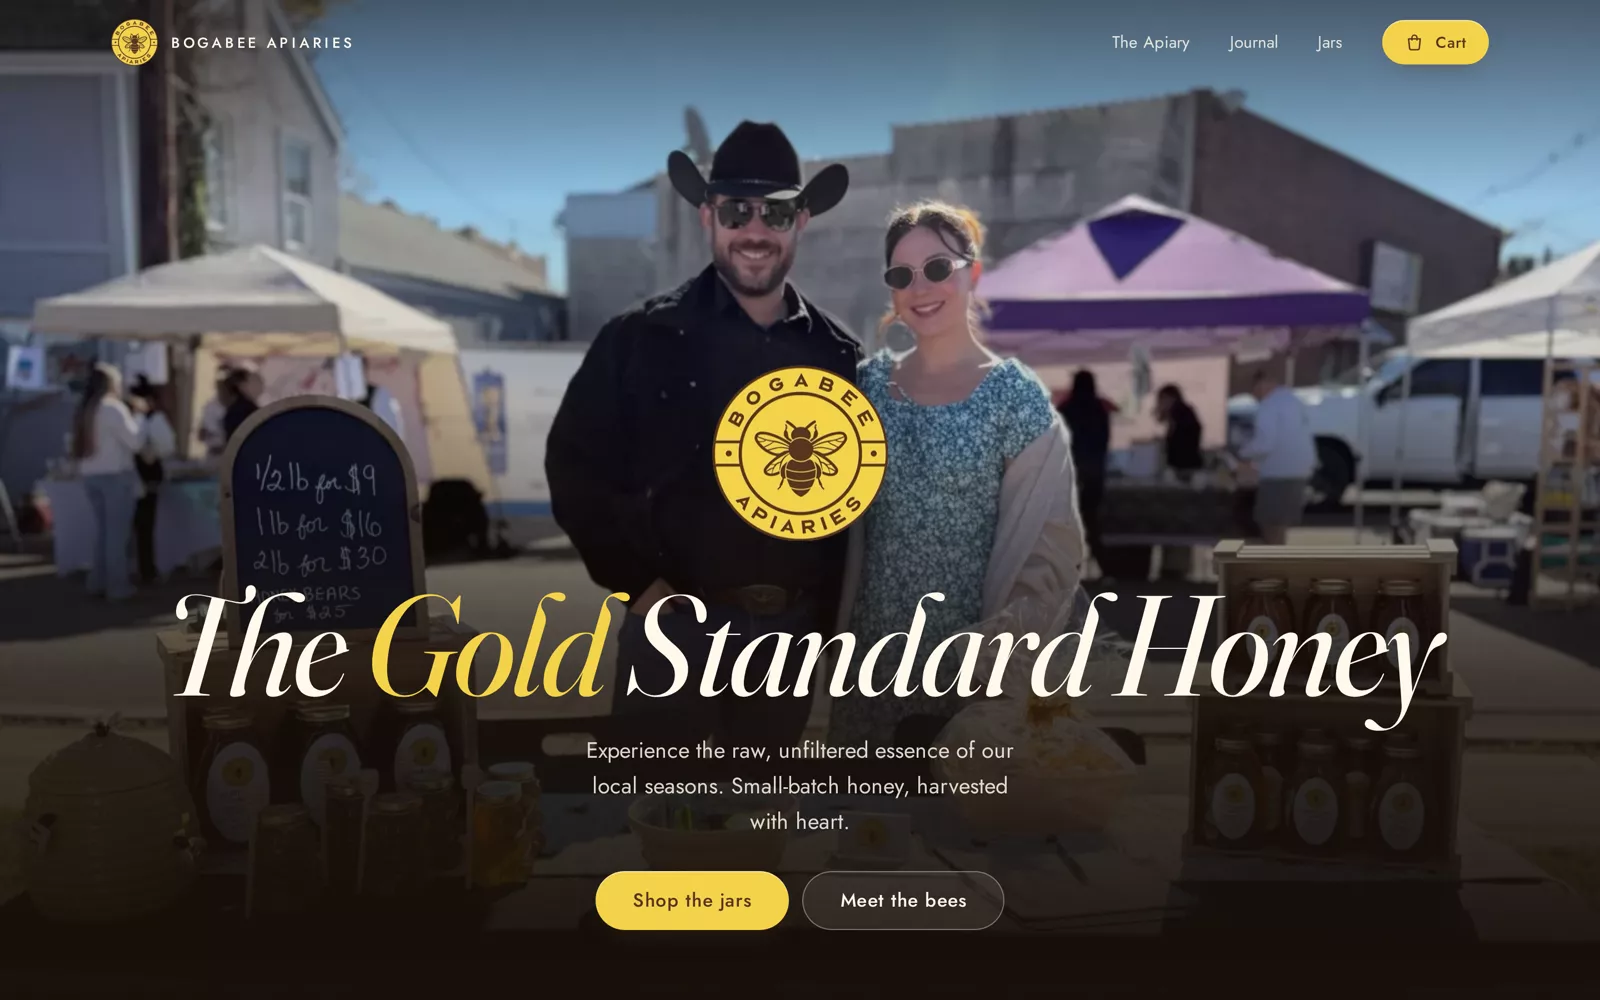
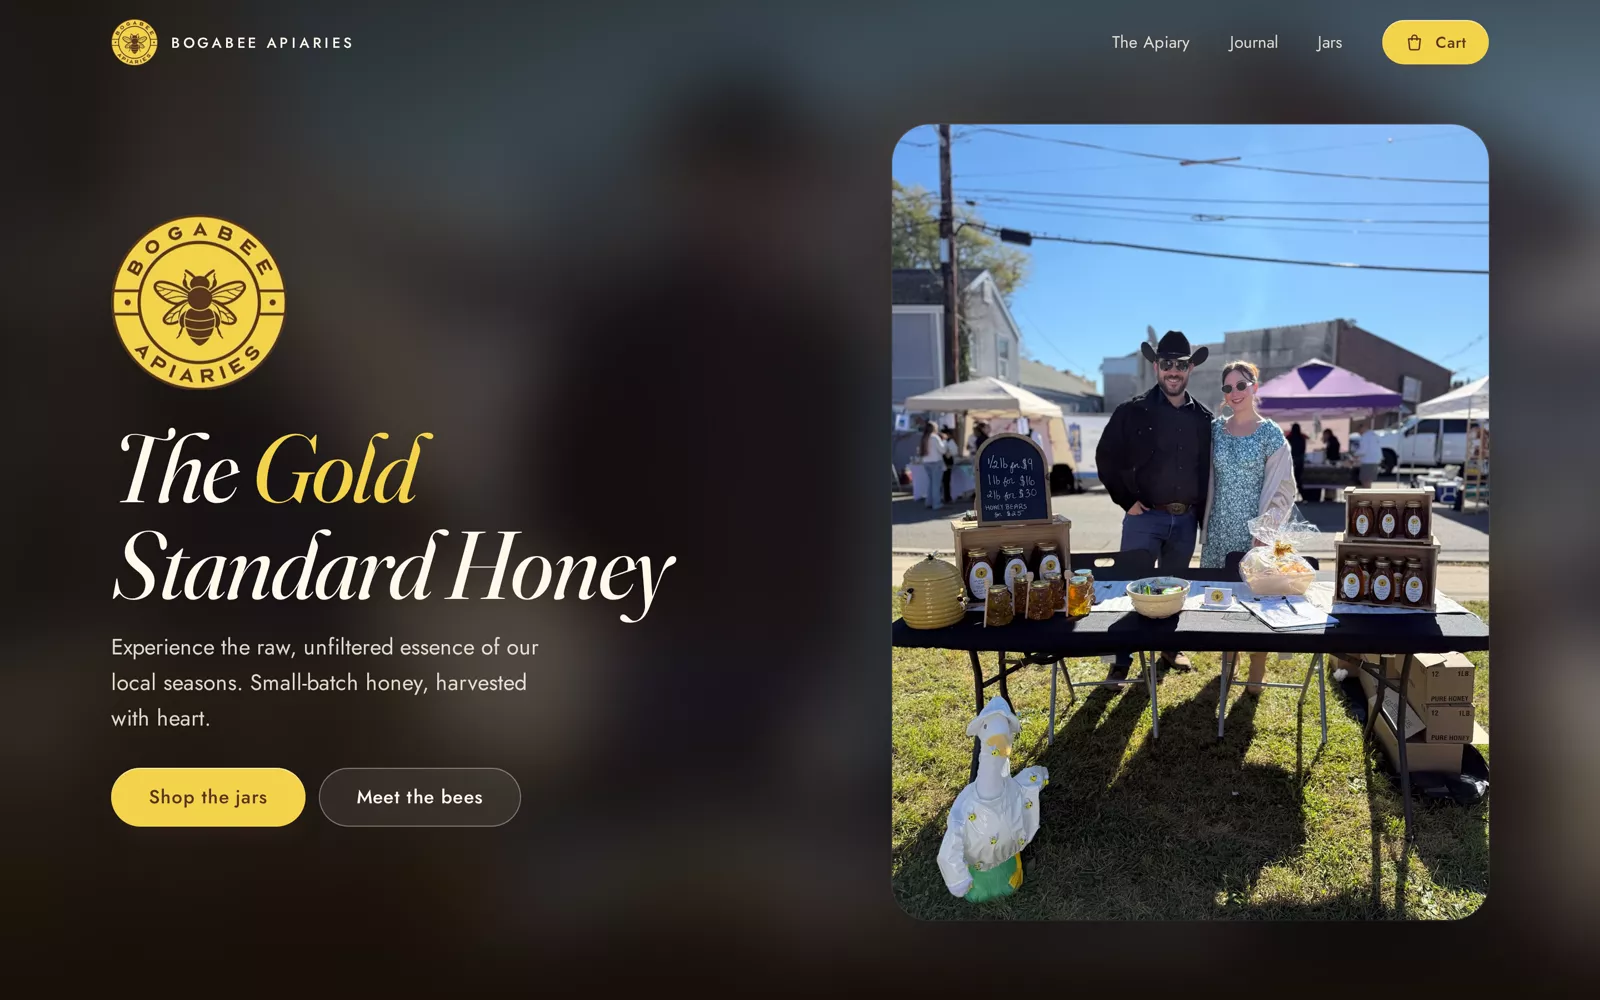
Demo: framed hero photo on wide screens
Same layout as wave 1: from 900px up the market photo sits beside the words at
a size it fills sharply, over a blurred copy of itself. Retook the laptop
"after" shot on the before/after page and the showcase.

diff --git a/demos/refined/index.html b/demos/refined/index.html
@@ -53,6 +53,40 @@
         .hero p { max-width: 34ch; margin: 16px 0 0; font-size: clamp(16px, 1.8vw, 20px); font-weight: 300; color: rgb(255 249 235 / 0.85); animation: rise 1.2s .3s var(--ease) both; }
         .hero .ctas { display: flex; flex-wrap: wrap; justify-content: center; gap: 12px; margin-top: 28px; animation: rise 1.2s .45s var(--ease) both; }
         @media (max-width: 640px) { .hero { min-height: max(100svh, 780px); } }
+        /* Wide screens: the photo would have to stretch past its resolution to fill the hero, so it
+           sits beside the words at a size it can fill sharply, over a blurred copy of itself. */
+        .hero-photo { display: none; }
+        @media (min-width: 900px) {
+            .hero {
+                grid-template-columns: minmax(0, 1.05fr) minmax(0, .95fr);
+                place-items: center;
+                column-gap: clamp(40px, 5vw, 88px);
+                padding: 112px max(var(--gutter), (100vw - var(--max)) / 2) 72px;
+                text-align: left;
+            }
+            .hero-bg img { filter: blur(28px) saturate(1.15); scale: 1.15; }
+            .hero-bg::after {
+                background:
+                    linear-gradient(to right, rgb(23 16 10 / 0.85), rgb(23 16 10 / 0.55) 60%, rgb(23 16 10 / 0.45)),
+                    linear-gradient(to bottom, rgb(23 16 10 / 0.35), transparent 20%, transparent 75%, var(--night));
+            }
+            .hero-inner { justify-items: start; justify-self: start; }
+            .hero h1 { font-size: clamp(56px, 6vw, 92px); }
+            .hero .ctas { justify-content: flex-start; }
+            .hero-photo {
+                display: block;
+                position: relative;
+                justify-self: end;
+                width: min(100%, (min(100svh, 980px) - 184px) * 3 / 4, 600px);
+                aspect-ratio: 3 / 4;
+                margin: 0;
+                border-radius: calc(var(--radius) + 6px);
+                overflow: hidden;
+                box-shadow: 0 40px 80px -30px rgb(0 0 0 / 0.65), 0 0 0 1px rgb(255 249 235 / 0.1);
+                animation: rise 1.2s .2s var(--ease) both;
+            }
+            .hero-photo img { display: block; width: 100%; height: 100%; object-fit: cover; }
+        }
         .btn-ghost { background: rgb(255 249 235 / 0.08); color: var(--cream); box-shadow: inset 0 0 0 1px rgb(255 249 235 / 0.35); backdrop-filter: blur(6px); }
         .btn-ghost:hover { background: rgb(255 249 235 / 0.16); box-shadow: inset 0 0 0 1px rgb(255 249 235 / 0.6); }
         .trust { background: var(--paper); border-bottom: 1px solid var(--line); padding: clamp(48px, 8vw, 96px) 0; }
@@ -85,7 +119,7 @@
 
     <main>
     <section class="hero" aria-labelledby="title">
-        <div class="hero-bg"><img src="../assets/img/market.webp" srcset="../assets/img/market-1000.webp 1000w, ../assets/img/market.webp 1500w" sizes="(max-aspect-ratio: 3/4) 75vh, 100vw" width="1500" height="2000" alt="The Bogabee Apiaries table at an outdoor market, with jars, honey bears and a price board" fetchpriority="high"></div>
+        <div class="hero-bg"><img src="../assets/img/market.webp" srcset="../assets/img/market-1000.webp 1000w, ../assets/img/market.webp 1500w" sizes="(max-aspect-ratio: 3/4) 75vh, 100vw" width="1500" height="2000" alt="" fetchpriority="high"></div>
         <div class="hero-inner">
             <img class="hero-logo" src="../assets/img/logo-303.webp" width="260" height="260" alt="Bogabee Apiaries">
             <h1 class="display" id="title">The <em>Gold</em> Standard Honey</h1>
@@ -95,6 +129,7 @@
                 <a class="btn btn-lg btn-ghost" href="../apiary/">Meet the bees</a>
             </div>
         </div>
+        <figure class="hero-photo"><img src="../assets/img/market.webp" srcset="../assets/img/market-1000.webp 1000w, ../assets/img/market.webp 1500w" sizes="(max-aspect-ratio: 3/4) 75vh, 100vw" width="1500" height="2000" alt="The Bogabee Apiaries table at an outdoor market, with jars, honey bears and a price board" fetchpriority="high"></figure>
     </section>
 
     <section class="trust" aria-labelledby="why-title">
